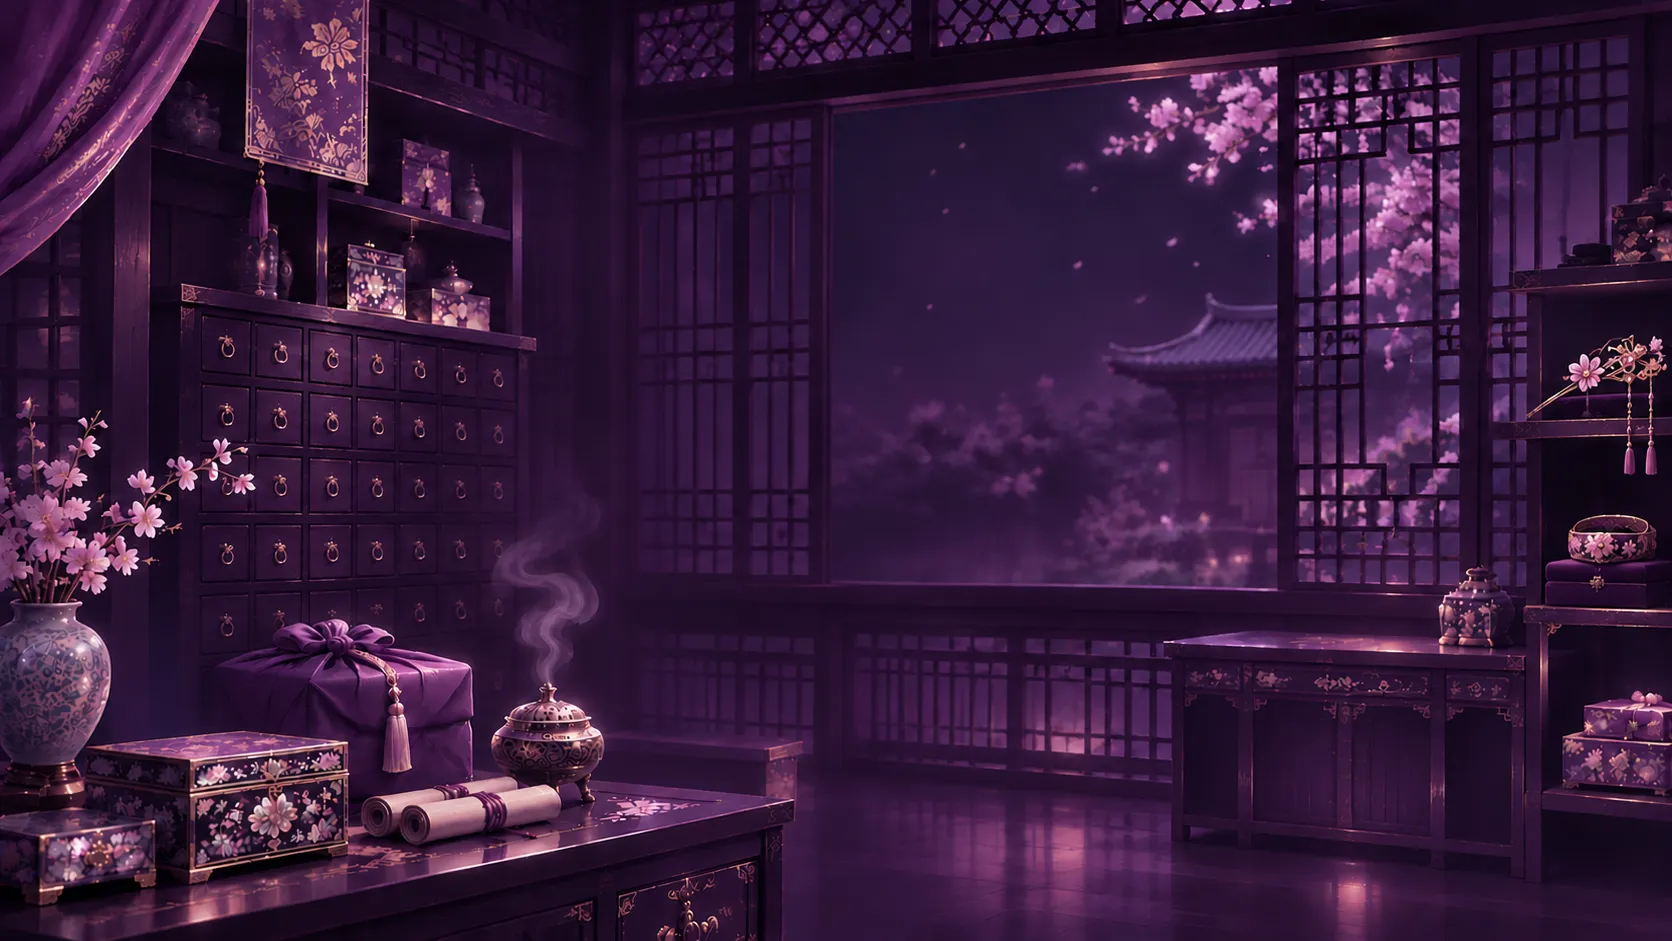
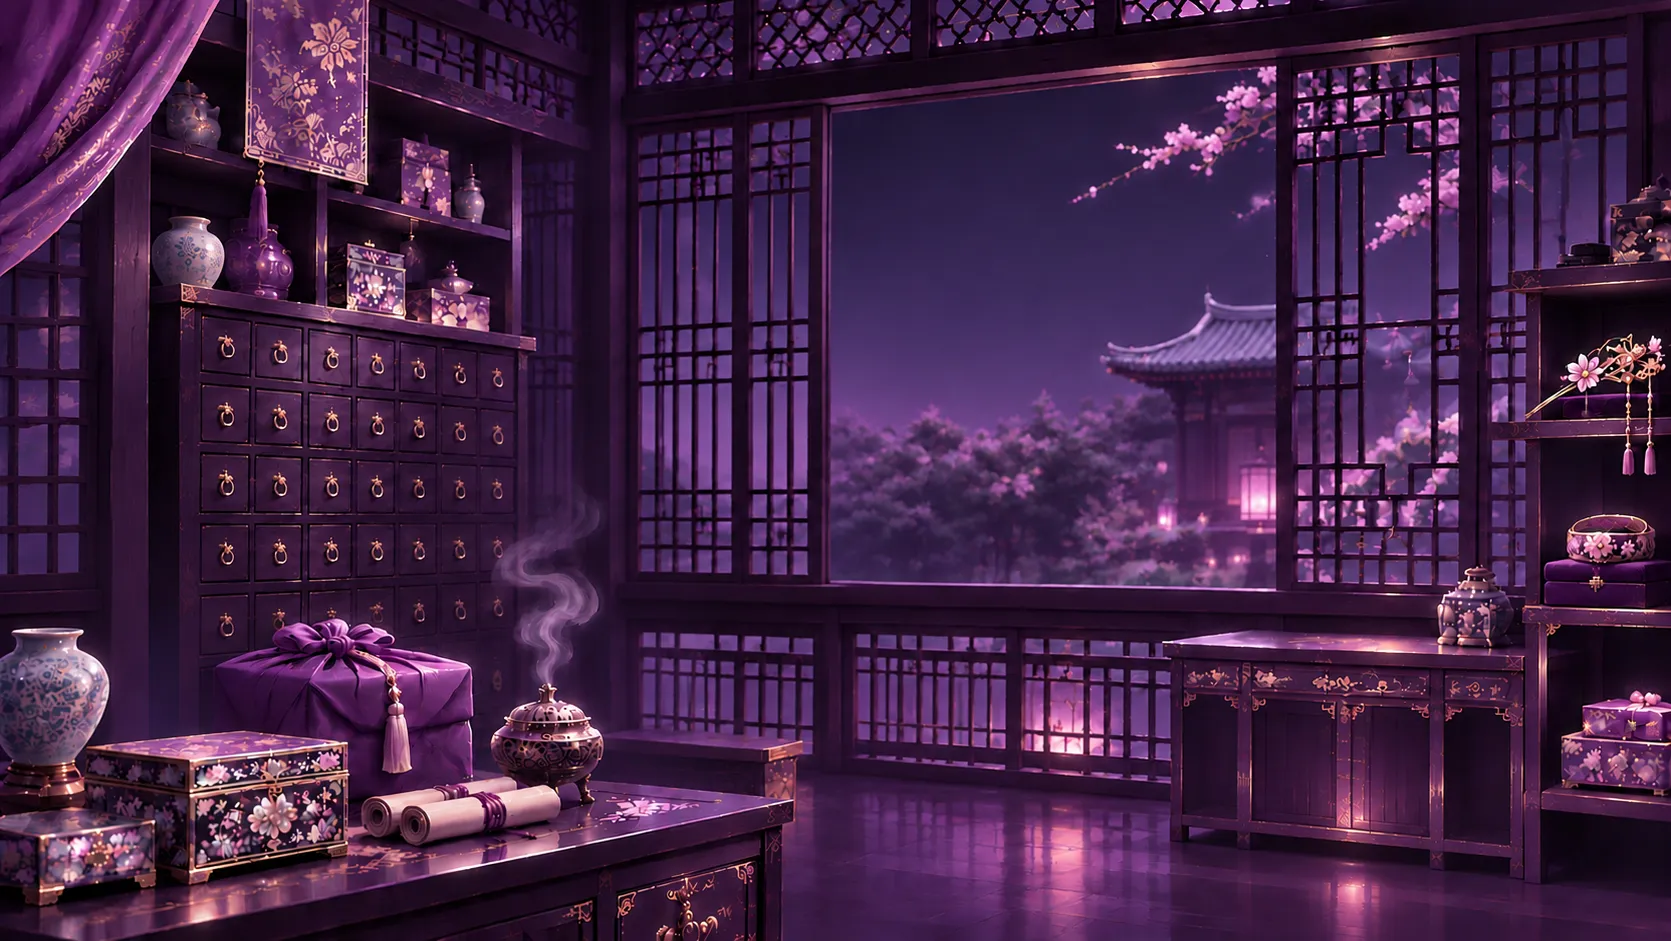
style: 비밀상점 최신 배경 이미지 반영 및 오버레이·장식 여백 조정

diff --git a/app/shop/page.tsx b/app/shop/page.tsx
@@ -221,7 +221,20 @@ export default function ShopPage() {
 
   return (
     <main className="relative min-h-screen bg-[#0c0816] text-white selection:bg-[var(--accent-gold)] selection:text-black">
-      <GlobalBackground src="/image/baekdohwa-secret-boutique-bg.webp" brightCenter={false}>
+      {/* 비록(/birok)과 동일한 brightCenter={true}(비네팅 50% 완화) + 비밀상점 전용 퍼플 오버레이 알파 소폭 완화 */}
+      <GlobalBackground
+        src="/image/baekdohwa-secret-boutique-bg.webp?v=20261111_2"
+        brightCenter={true}
+        customBaseOverlay={
+          <div
+            className="absolute inset-0 pointer-events-none"
+            style={{
+              background:
+                'linear-gradient(to bottom, rgba(26, 15, 46, 0.5), rgba(20, 10, 35, 0.72), rgba(10, 5, 20, 0.87))',
+            }}
+          />
+        }
+      >
         <Navigation />
         
         {/* 1. Hero Section: Premium Boutique Atmosphere */}
@@ -243,12 +256,12 @@ export default function ShopPage() {
               </Reveal>
 
               <Reveal delayMs={300}>
-                <div className="flex justify-center -mt-3 -mb-1 md:-mt-7 md:-mb-5 pointer-events-none select-none">
+                <div className="flex justify-center -mt-2 mb-0 md:-mt-4 md:-mb-3 pointer-events-none select-none">
                   <img
                     src="/image/baekdohwa-rose-gold-divider.png"
                     alt=""
                     aria-hidden="true"
-                    className="w-[220px] sm:w-[260px] md:w-[340px] max-w-full h-auto object-contain"
+                    className="w-[190px] sm:w-[225px] md:w-[290px] max-w-full h-auto object-contain opacity-85"
                   />
                 </div>
               </Reveal>
